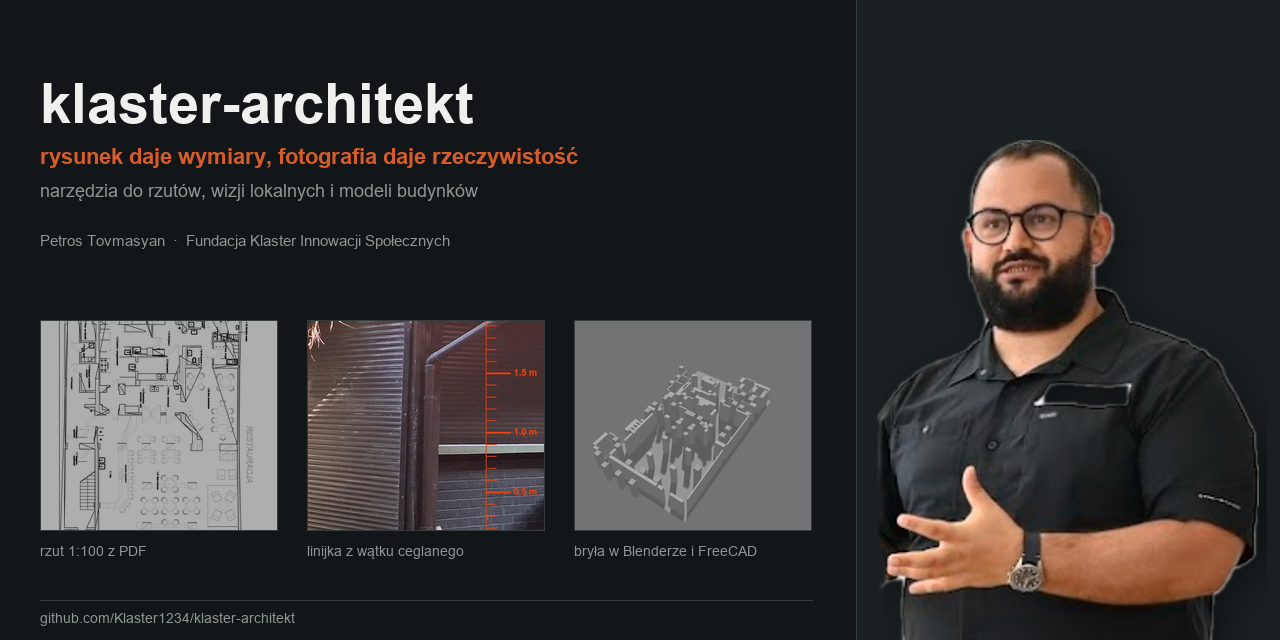
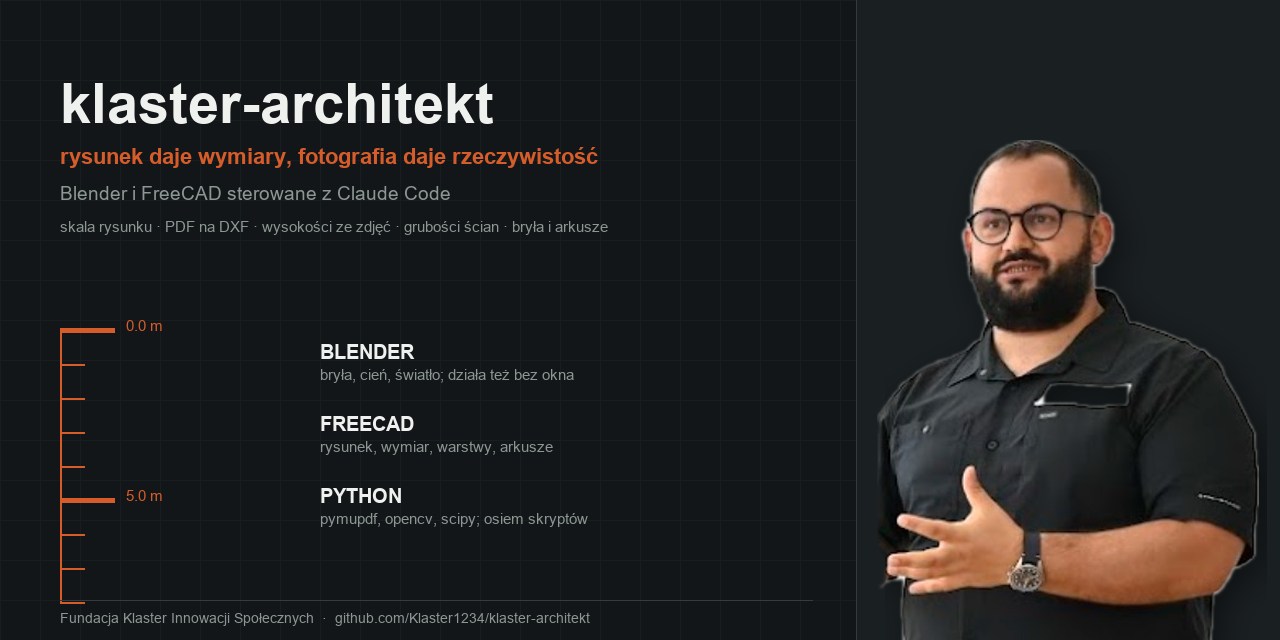
Zestaw ogolny zamiast repo pod jedno zlecenie
README opisuje teraz podzial rol miedzy Blenderem a FreeCAD-em i sam zestaw,
bez konkretnego adresu. Doszedl instalator, ktory stawia oba programy, wgrywa
wtyczki MCP, ustawia autostart serwerow i rejestruje konektory, oraz skrypt
sprawdzajacy porty. Skill przemianowany na rysunki-i-modele.

diff --git a/instalacja/sprawdz.py b/instalacja/sprawdz.py
@@ -1,0 +1,27 @@
+"""Sprawdza, czy serwery Blendera i FreeCAD-a odpowiadaja.
+
+    python instalacja/sprawdz.py
+"""
+import socket, sys, xmlrpc.client
+
+def port(nr):
+    s = socket.socket(); s.settimeout(2)
+    try:
+        s.connect(("127.0.0.1", nr)); return True
+    except OSError:
+        return False
+    finally:
+        s.close()
+
+blender = port(9876)
+freecad = port(9875)
+print("Blender  9876:", "dziala" if blender else "nie odpowiada, odpal 'Blender z MCP.bat'")
+if freecad:
+    try:
+        xmlrpc.client.ServerProxy("http://127.0.0.1:9875", allow_none=True).ping()
+        print("FreeCAD  9875: dziala")
+    except Exception as e:
+        print("FreeCAD  9875: port otwarty, RPC nie odpowiada:", e)
+else:
+    print("FreeCAD  9875: nie odpowiada, uruchom FreeCAD")
+sys.exit(0 if (blender and freecad) else 1)

diff --git a/instalacja/blender_mcp_start.py b/instalacja/blender_mcp_start.py
@@ -1,0 +1,12 @@
+"""Startuje serwer MCP w Blenderze zaraz po wczytaniu interfejsu."""
+import bpy
+
+def _start():
+    try:
+        bpy.ops.blendermcp.start_server()
+        print("BLENDERMCP: serwer wystartowal na porcie 9876")
+    except Exception as e:
+        print("BLENDERMCP: start nieudany:", e)
+    return None
+
+bpy.app.timers.register(_start, first_interval=2.0)

diff --git a/README.md b/README.md
@@ -2,18 +2,46 @@
 
 ![klaster-architekt](obraz/naglowek.png)
 
-Narzędzia do pracy z rzutami i fotografiami budynków: wyciąganie wymiarów z
-rysunków PDF, mierzenie wysokości ze zdjęć, budowa bryły 3D i sterowanie
-FreeCAD-em oraz Blenderem bez klikania.
+Zestaw do pracy z rysunkami budowlanymi i fotografiami z wizji lokalnych, oparty
+o dwa darmowe programy sterowane z Claude Code: **Blender** i **FreeCAD**.
 
-Powstało przy adaptacji lokalu przy ul. o. Jana Siemińskiego 22 w Gliwicach
-(dawna Restauracja Ormiańska) na hub konferencyjny klastra.
+Repo daje trzy rzeczy: instalator, który podpina oba programy jako konektory MCP,
+skrypty do wyciągania wymiarów z rysunków i zdjęć, oraz skill z zasadami pracy.
+
+## Instalacja
+
+```powershell
+powershell -ExecutionPolicy Bypass -File instalacja\instaluj.ps1
+```
+
+Instaluje Blendera i FreeCAD-a, wgrywa wtyczki MCP, ustawia automatyczny start
+serwerów, tworzy skrót `Blender z MCP.bat` i rejestruje konektory. Po instalacji
+zrestartuj sesję Claude Code.
+
+```bash
+python instalacja/sprawdz.py
+```
+
+Sprawdza, czy oba serwery odpowiadają: Blender na porcie 9876, FreeCAD na 9875.
+
+## Dwa programy, dwie role
+
+**Blender** liczy bryłę i światło. Buduje makietę z rzutu, robi badanie
+nasłonecznienia, renderuje białe widoki. Działa też bez okna, w trybie `-b`,
+co pozwala budować model skryptem w tle.
+
+**FreeCAD** trzyma rysunek i wymiar. Wczytuje DXF z warstwami, pozwala mierzyć,
+nazywać obiekty i wyprowadzać arkusze. Jego wtyczka wystawia XML-RPC, więc da się
+nim sterować także wtedy, gdy konektor MCP nie wstanie.
 
 ## Zasada
 
-Rysunek daje wymiary, fotografia daje rzeczywistość. Nie odwrotnie. Z rzutu
-bierzemy geometrię i skalę, ze zdjęć to, co naprawdę stoi na miejscu i jakie ma
-wysokości, bo rzut wysokości nie ma.
+**Rysunek daje wymiary, fotografia daje rzeczywistość.**
+
+Z rzutu bierzesz geometrię, skalę i grubości. Ze zdjęć bierzesz to, co naprawdę
+stoi na miejscu, i wysokości, bo rzut ich nie ma. Najczęstszy błąd to przeniesienie
+z rzutu jego treści, czyli rozstawienia mebli i projektowanej zabudowy, i podanie
+tego jako stanu istniejącego. Rzut projektowy pokazuje zamiar projektanta.
 
 ## Narzędzia
 
@@ -21,36 +49,36 @@ wysokości, bo rzut wysokości nie ma.
 |---|---|
 | `narzedzia/skala.py` | Znajduje podziałkę liniową w PDF i zwraca punkty na metr |
 | `narzedzia/pdf_do_dxf.py` | Wektorowy rzut PDF na warstwowy DXF w milimetrach, kolor kreski na warstwę |
-| `narzedzia/rzut_arkusz.py` | Arkusz rzutu w skali 1:100 z podziałką, kreska oryginalna |
+| `narzedzia/rzut_arkusz.py` | Arkusz rzutu w skali z podziałką, kreska oryginalna |
 | `narzedzia/wykryj_wat.py` | Wskazuje zdjęcia, na których wątek ceglany nadaje się na linijkę |
 | `narzedzia/linijka_ceglana.py` | Mierzy wysokości ze zdjęcia, biorąc warstwę cegły 7,5 cm za moduł |
 | `narzedzia/sciany_z_rzutu.py` | Paruje równoległe linie rzutu i wylicza grubości ścian |
-| `narzedzia/bryla_blender.py` | Buduje bryłę w Blenderze z par ścian i słupów |
-| `narzedzia/freecad_rpc.py` | Steruje FreeCAD-em przez XML-RPC wtyczki FreeCADMCP |
+| `narzedzia/bryla_blender.py` | Buduje bryłę w Blenderze z par ścian i słupów, w tle |
+| `narzedzia/freecad_rpc.py` | Steruje FreeCAD-em przez XML-RPC, bez konektora MCP |
 
-## Kolejność pracy
+## Typowa kolejność
 
 ```bash
 python narzedzia/skala.py rzut.pdf
 python narzedzia/pdf_do_dxf.py rzut.pdf rysunek.dxf --skala 30.768 --x0 272.64 --y1 2241.38
 python narzedzia/wykryj_wat.py foto/
 python narzedzia/linijka_ceglana.py foto/sciana.jpg --pas 3000 120 1400 2000 --linijka 3060
-python narzedzia/sciany_z_rzutu.py odcinki.json pary.json --ymin 43
+python narzedzia/sciany_z_rzutu.py odcinki.json pary.json
 blender -b --python narzedzia/bryla_blender.py -- pary.json slupy.json 3.50 model.blend
 python narzedzia/freecad_rpc.py --dxf rysunek.dxf --doc Projekt --zapisz model.FCStd
 ```
 
-## Czego te narzędzia nie zrobią
+## Czego ten zestaw nie zrobi
 
-Nie zrobią wizualizacji fotorealistycznej. Naklejanie wycinków ze zdjęć na
-prostopadłościany daje smugi i powtórzenia, sprawdzone i odrzucone. Do wyglądu
-służy edycja samych fotografii, do wymiarów i układu ten zestaw.
+Nie zrobi wizualizacji fotorealistycznej. Naklejanie wycinków ze zdjęć na
+prostopadłościany daje smugi i powtórzenia, sprawdzone i odrzucone. Model bryłowy
+ma być białą makietą, a realizm bierze się z edycji samych fotografii.
 
-Linijka ceglana działa tylko na płaszczyźnie, na której ją dopasowano, i tylko
-tam, gdzie wątek mieści się w kadrze. Wierzchu wysokiego muru zwykle w kadrze
-nie ma.
+Linijka ceglana działa tylko na płaszczyźnie, na której ją dopasowano, i tylko tam,
+gdzie wątek mieści się w kadrze. Wierzchu wysokiego muru zwykle w kadrze nie ma i
+wtedy wysokość jest założeniem, które trzeba w modelu opisać jako założenie.
 
 ## Wymagania
 
 Python z `pymupdf`, `numpy`, `opencv-python`, `scipy`, `pillow`.
-Opcjonalnie Blender 5.x i FreeCAD 1.1 z dodatkiem FreeCADMCP.
+Blender 5.x, FreeCAD 1.1, `uv` w PATH, `winget` i `git` do instalatora.

diff --git a/.claude/skills/rysunki-i-modele/SKILL.md b/.claude/skills/rysunki-i-modele/SKILL.md
@@ -1,0 +1,71 @@
+---
+name: rysunki-i-modele
+description: >
+  Praca z rysunkami budowlanymi i zdjęciami z wizji lokalnej przy pomocy Blendera
+  i FreeCAD-a: skala rysunku, PDF na DXF, mierzenie wysokości ze zdjęć po wątku
+  ceglanym, grubości ścian, bryła 3D, arkusze w skali. Użyj gdy pada: rzut,
+  inwentaryzacja, wymiary z rysunku, zmierz ze zdjęcia, przerób PDF na CAD, DXF,
+  zrób model lokalu, adaptacja lokalu, ile ma wysokości, skala rysunku, wizja
+  lokalna, Blender, FreeCAD, makieta budynku.
+---
+
+# Rysunki i modele budynków
+
+## Zasada, od której się nie odchodzi
+
+**Rysunek daje wymiary, fotografia daje rzeczywistość.**
+
+Z rzutu bierzesz geometrię, skalę i grubości. Ze zdjęć bierzesz to, co naprawdę
+stoi na miejscu, i wysokości, bo rzut ich nie ma.
+
+Najczęstszy błąd, popełniony i naprawiony: przeniesienie z rzutu jego **treści**,
+czyli rozstawienia mebli, stref parasoli i projektowanej zabudowy, i podanie tego
+jako stanu istniejącego. Rzut projektowy pokazuje zamiar projektanta, nie to, co
+stoi na miejscu. Do modelu wchodzi z rysunku wyłącznie geometria.
+
+## Kolejność
+
+1. **Skala.** `narzedzia/skala.py rzut.pdf` znajduje podziałkę liniową. Potwierdź
+   opisem przy podziałce, bo segment może znaczyć 1 m albo 5 m. Wynik sprawdź na
+   czymś, czego wymiar znasz z góry: brama w kamienicy ma 2,8 do 3,5 m, słup
+   konstrukcyjny 0,4 do 0,8 m, stopień schodów 0,28 do 0,30 m, drzwi 0,80 do 0,90 m.
+   Jeśli te liczby wychodzą absurdalne, skala jest zła i nie idź dalej.
+2. **DXF.** `pdf_do_dxf.py` przenosi całą kreskę na warstwy według koloru. Na tym
+   etapie nie wycinaj z rysunku niczego; wyłączanie warstw to sprawa odbiorcy.
+3. **Wysokości ze zdjęć.** `wykryj_wat.py` wskaże kadry z czytelnym wątkiem,
+   `linijka_ceglana.py` dopasuje odwzorowanie rzutowe wzdłuż pionu. Warstwa cegła
+   plus spoina to 7,5 cm i to jedyne założenie. Błąd dopasowania powyżej 5 px
+   oznacza, że pas trafił na coś, co nie jest murem.
+4. **Grubości ścian.** `sciany_z_rzutu.py` paruje lica. Wyniki muszą układać się
+   w wątki 0,12 / 0,25 / 0,38 / 0,51 / 0,64 m. Jeśli nie, skala jest zła.
+5. **Bryła i CAD.** `bryla_blender.py` w tle, `freecad_rpc.py` do rysunku.
+
+## Podział ról
+
+**Blender** liczy bryłę, cień i światło. **FreeCAD** trzyma rysunek, wymiar i
+warstwy. Nie próbuj robić rysunku w Blenderze ani nasłonecznienia we FreeCAD.
+
+Serwer w Blenderze nie wstaje sam, odpalaj przez `Blender z MCP.bat`. FreeCAD
+startuje RPC sam, jeśli w `freecad_mcp_settings.json` jest `auto_start_rpc: true`.
+Gdy konektor MCP nie wstanie przy starcie sesji, FreeCAD-em nadal sterujesz przez
+`freecad_rpc.py`, bo to zwykły XML-RPC na porcie 9875.
+
+## Czego nie robić
+
+Nie rób wizualizacji fotorealistycznej z tekstur wyciętych ze zdjęć naklejanych na
+prostopadłościany. Wychodzą smugi i powtórzony ten sam fragment muru. Model bryłowy
+ma być białą makietą; realizm bierze się z edycji samych fotografii.
+
+Nie zgaduj wysokości, której nie ma w kadrze. Zapytaj albo poproś o zdjęcia
+aparatem w górę spod przeciwległej ściany, a w modelu **opisz, co jest pomiarem,
+a co założeniem**.
+
+Nie licz na jedno źródło. Inwentaryzacja i rzut projektowy z różnych lat potrafią
+się nie zgadzać. Ustal z zamawiającym, które źródło jest wiążące, zanim zbudujesz
+cokolwiek.
+
+## Nazewnictwo
+
+Obiekty w modelu nazywaj tak, jak nazywa je rysunek: numer i nazwa pomieszczenia,
+nie `Cube.001`. Model ma wiedzieć, co jest czym, bo inaczej nie da się go potem
+czytać ani filtrować.
